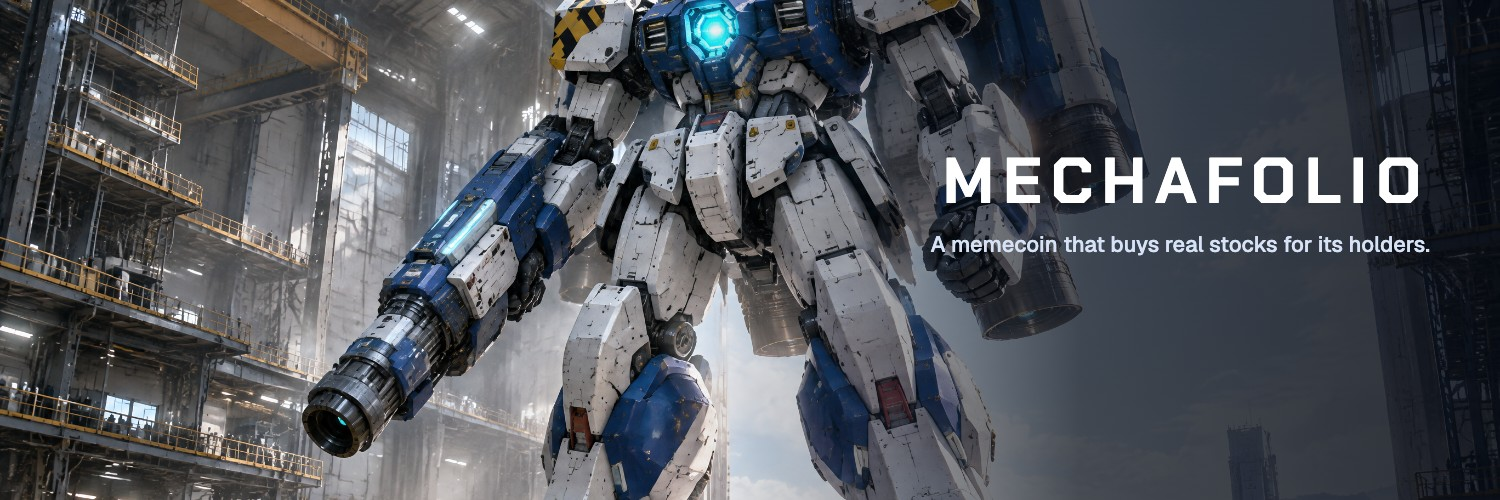
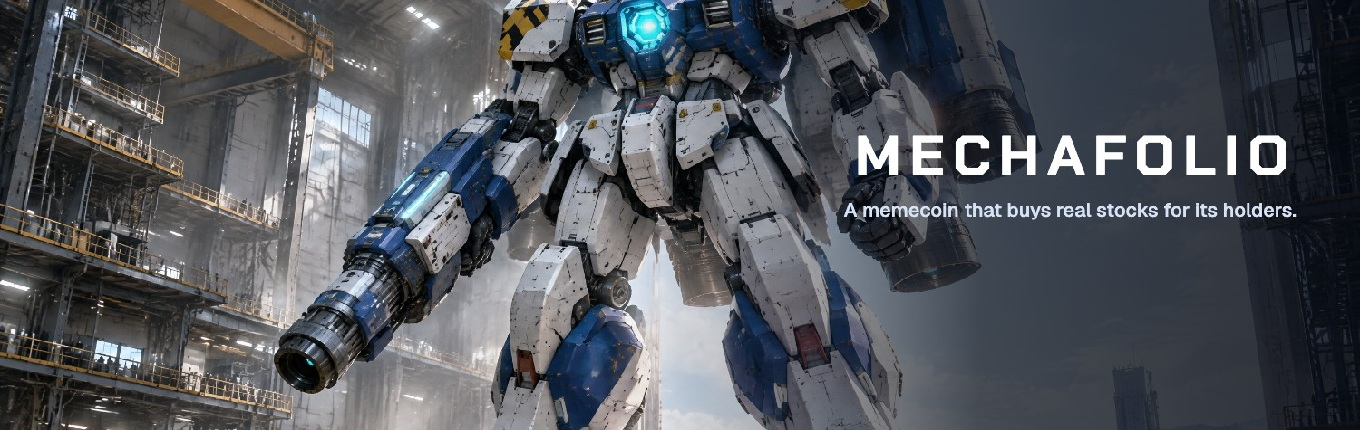
social update

diff --git a/index.html b/index.html
@@ -10,9 +10,9 @@
 <meta property="og:type" content="website">
 <meta property="og:title" content="MECHAFOLIO · A memecoin that buys real stocks for its holders">
 <meta property="og:description" content="The 3% trading fee buys real stock tokens on Robinhood Chain. Holders claim them to their wallet.">
-<meta property="og:image" content="https://mechafolio.xyz/assets/art/og.jpg">
+<meta property="og:image" content="https://mechafolio.vip/assets/art/og.jpg">
 <meta name="twitter:card" content="summary_large_image">
-<meta name="twitter:image" content="https://mechafolio.xyz/assets/art/og.jpg">
+<meta name="twitter:image" content="https://mechafolio.vip/assets/art/og.jpg">
 <link rel="icon" href="assets/brand/mark.svg" type="image/svg+xml">
 <link rel="apple-touch-icon" href="assets/brand/apple-touch-icon.png">
 <link rel="preconnect" href="https://fonts.googleapis.com"><link rel="preconnect" href="https://fonts.gstatic.com" crossorigin>
@@ -83,7 +83,7 @@
     <a href="yard.html"><b>03</b><strong>Yard</strong><span>Every holder's mech, standing in one yard. Rankings by frame.</span></a>
     <a href="ledger.html"><b>04</b><strong>Ledger</strong><span>Fees in, stocks bought, Merkle roots out. Every transaction linked.</span></a>
     <a href="docs.html"><b>05</b><strong>Docs</strong><span>How frames, parts, loadouts and duels work.</span></a>
-    <div class="menu-links"><span class="k">Official</span><a href="https://x.com/mechafolio_rh" target="_blank" rel="noopener">X · @mechafolio</a><a href="/">mechafolio.xyz</a></div>
+    <div class="menu-links"><span class="k">Official</span><a href="https://x.com/mechafolio_rh" target="_blank" rel="noopener">X · @Mechafolio_rh</a><a href="/">mechafolio.vip</a></div>
   </div>
 </nav>
 
@@ -244,8 +244,8 @@
         </div>
         <div class="official">
           <span class="k">Only official links</span>
-          <a href="https://x.com/mechafolio_rh" target="_blank" rel="noopener"><svg><use href="#i-x"/></svg>@mechafolio</a>
-          <a href="/">mechafolio.xyz</a>
+          <a href="https://x.com/mechafolio_rh" target="_blank" rel="noopener"><svg><use href="#i-x"/></svg>@Mechafolio_rh</a>
+          <a href="/">mechafolio.vip</a>
         </div>
       </div>
     </div>

diff --git a/docs.html b/docs.html
@@ -7,7 +7,7 @@
 <title>Docs · MECHAFOLIO</title>
 <meta name="description" content="How MECHAFOLIO works: frames, stock-filled parts, loadouts, daily splits, claims, the Arena, the contracts and the risks.">
 <meta name="theme-color" content="#0B1220">
-<meta property="og:title" content="Docs · MECHAFOLIO"><meta property="og:image" content="https://mechafolio.xyz/assets/art/og.jpg"><meta name="twitter:card" content="summary_large_image">
+<meta property="og:title" content="Docs · MECHAFOLIO"><meta property="og:image" content="https://mechafolio.vip/assets/art/og.jpg"><meta name="twitter:card" content="summary_large_image">
 <link rel="icon" href="assets/brand/mark.svg" type="image/svg+xml"><link rel="apple-touch-icon" href="assets/brand/apple-touch-icon.png">
 <link rel="preconnect" href="https://fonts.googleapis.com"><link rel="preconnect" href="https://fonts.gstatic.com" crossorigin>
 <link href="https://fonts.googleapis.com/css2?family=Chakra+Petch:wght@500;600;700&family=Geist:wght@400;500;600;700&family=Geist+Mono:wght@400;500;600&display=swap" rel="stylesheet">
@@ -131,7 +131,7 @@
 
       <section id="links">
         <h2>Official links</h2>
-        <p>X: <a class="ext" href="https://x.com/mechafolio_rh" target="_blank" rel="noopener">@mechafolio</a> · Site: <a class="ext" href="/">mechafolio.xyz</a></p>
+        <p>X: <a class="ext" href="https://x.com/mechafolio_rh" target="_blank" rel="noopener">@Mechafolio_rh</a> · Site: <a class="ext" href="/">mechafolio.vip</a></p>
         <p>Contract address: <code data-ca-text>drops at launch</code>. Only trust the address shown on this site and pinned on our X.</p>
       </section>
     </article>

diff --git a/arena.html b/arena.html
@@ -7,7 +7,7 @@
 <title>Arena · MECHAFOLIO</title>
 <meta name="description" content="Daily MECHAFOLIO duels at 20:00 UTC. Every part hits as hard as its real stock moved that day. Replays, standings and class champions.">
 <meta name="theme-color" content="#0B1220">
-<meta property="og:title" content="Arena · MECHAFOLIO"><meta property="og:image" content="https://mechafolio.xyz/assets/art/og.jpg"><meta name="twitter:card" content="summary_large_image">
+<meta property="og:title" content="Arena · MECHAFOLIO"><meta property="og:image" content="https://mechafolio.vip/assets/art/og.jpg"><meta name="twitter:card" content="summary_large_image">
 <link rel="icon" href="assets/brand/mark.svg" type="image/svg+xml"><link rel="apple-touch-icon" href="assets/brand/apple-touch-icon.png">
 <link rel="preconnect" href="https://fonts.googleapis.com"><link rel="preconnect" href="https://fonts.gstatic.com" crossorigin>
 <link href="https://fonts.googleapis.com/css2?family=Chakra+Petch:wght@500;600;700&family=Geist:wght@400;500;600;700&family=Geist+Mono:wght@400;500;600&display=swap" rel="stylesheet">

diff --git a/hangar.html b/hangar.html
@@ -7,7 +7,7 @@
 <title>Hangar · MECHAFOLIO</title>
 <meta name="description" content="Your MECHAFOLIO frame: its class, its eight stock-filled parts, and the tokenized stocks you can claim on Robinhood Chain.">
 <meta name="theme-color" content="#0B1220">
-<meta property="og:title" content="Hangar · MECHAFOLIO"><meta property="og:image" content="https://mechafolio.xyz/assets/art/og.jpg"><meta name="twitter:card" content="summary_large_image">
+<meta property="og:title" content="Hangar · MECHAFOLIO"><meta property="og:image" content="https://mechafolio.vip/assets/art/og.jpg"><meta name="twitter:card" content="summary_large_image">
 <link rel="icon" href="assets/brand/mark.svg" type="image/svg+xml"><link rel="apple-touch-icon" href="assets/brand/apple-touch-icon.png">
 <link rel="preconnect" href="https://fonts.googleapis.com"><link rel="preconnect" href="https://fonts.gstatic.com" crossorigin>
 <link href="https://fonts.googleapis.com/css2?family=Chakra+Petch:wght@500;600;700&family=Geist:wght@400;500;600;700&family=Geist+Mono:wght@400;500;600&display=swap" rel="stylesheet">

diff --git a/yard.html b/yard.html
@@ -7,7 +7,7 @@
 <title>Yard · MECHAFOLIO</title>
 <meta name="description" content="Every MECHAFOLIO pilot's mech standing in one yard, sized by their share of $FOLIO. Rankings by frame class.">
 <meta name="theme-color" content="#0B1220">
-<meta property="og:title" content="Yard · MECHAFOLIO"><meta property="og:image" content="https://mechafolio.xyz/assets/art/og.jpg"><meta name="twitter:card" content="summary_large_image">
+<meta property="og:title" content="Yard · MECHAFOLIO"><meta property="og:image" content="https://mechafolio.vip/assets/art/og.jpg"><meta name="twitter:card" content="summary_large_image">
 <link rel="icon" href="assets/brand/mark.svg" type="image/svg+xml"><link rel="apple-touch-icon" href="assets/brand/apple-touch-icon.png">
 <link rel="preconnect" href="https://fonts.googleapis.com"><link rel="preconnect" href="https://fonts.gstatic.com" crossorigin>
 <link href="https://fonts.googleapis.com/css2?family=Chakra+Petch:wght@500;600;700&family=Geist:wght@400;500;600;700&family=Geist+Mono:wght@400;500;600&display=swap" rel="stylesheet">

diff --git a/ledger.html b/ledger.html
@@ -7,7 +7,7 @@
 <title>Ledger · MECHAFOLIO</title>
 <meta name="description" content="Every $FOLIO fee, every stock buy and every daily Merkle root, linked to Robinhood Chain.">
 <meta name="theme-color" content="#0B1220">
-<meta property="og:title" content="Ledger · MECHAFOLIO"><meta property="og:image" content="https://mechafolio.xyz/assets/art/og.jpg"><meta name="twitter:card" content="summary_large_image">
+<meta property="og:title" content="Ledger · MECHAFOLIO"><meta property="og:image" content="https://mechafolio.vip/assets/art/og.jpg"><meta name="twitter:card" content="summary_large_image">
 <link rel="icon" href="assets/brand/mark.svg" type="image/svg+xml"><link rel="apple-touch-icon" href="assets/brand/apple-touch-icon.png">
 <link rel="preconnect" href="https://fonts.googleapis.com"><link rel="preconnect" href="https://fonts.gstatic.com" crossorigin>
 <link href="https://fonts.googleapis.com/css2?family=Chakra+Petch:wght@500;600;700&family=Geist:wght@400;500;600;700&family=Geist+Mono:wght@400;500;600&display=swap" rel="stylesheet">

diff --git a/js/config.js b/js/config.js
@@ -3,9 +3,9 @@
 export const SITE = {
   name: 'MECHAFOLIO',
   ticker: '$FOLIO',
-  domain: 'mechafolio.xyz',
+  domain: 'mechafolio.vip',
   x: 'https://x.com/mechafolio_rh',
-  xHandle: '@mechafolio',
+  xHandle: '@Mechafolio_rh',
   launchUtc: null,            // diisi saat jadwal launch pasti, mis. '2026-10-20T17:00:00Z'
   ca: '0x5fd9547b0a9a75b8a3b0b60a4714974cfea5e411',
 };
